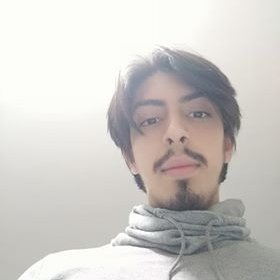
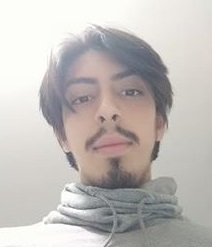
cambios en el contactame agregado de iconos con su redireccion

diff --git a/index.html b/index.html
@@ -5,12 +5,15 @@
   <meta charset="UTF-8">
   <meta http-equiv="X-UA-Compatible" content="IE=edge">
   <meta name="viewport" content="width=device-width, initial-scale=1.0">
-  <link rel="icon" href="./imgs/Logo.svg">
   <link rel="preconnect" href="https://fonts.googleapis.com">
   <link rel="preconnect" href="https://fonts.gstatic.com" crossorigin>
   <link href="https://fonts.googleapis.com/css2?family=Montserrat:wght@400;700&display=swap" rel="stylesheet">
   <link rel="stylesheet" href="./css/styles.css">
-  <title>HenryGalvez</title>
+  <title>Henry Galvez</title>
+  <meta name="description" content="Hola bienvenido a mi Portafolio Professional, soy Henry Galvez desarrollador Web">
+  <link rel="icon" href="./imgs/Logo.svg">
+  <link rel="apple-touch-icon" href="ruta/absoluta7...">
+  <meta name="theme-color" content="#cc1c00">
 </head>
 
 <body>
@@ -113,6 +116,15 @@
             necessitatibus.
             Rerum!</p>
         </aside>
+        <article class="modal" id="trabajo-1">
+          <a href="#cerrar" class="modal-close">
+            <img src="./imgs/close.svg" alt="closeIcon">
+          </a>
+          <div class="modal-content">
+            <img src="./imgs/portfolio-1.jpg" alt="proyecto-1">
+            <h2>Contenido Modal</h2>
+          </div>
+        </article>
       </div>
       <div class="img2-portfolio  img-portfolio">
         <aside>
@@ -122,6 +134,15 @@
             necessitatibus.
             Rerum!</p>
         </aside>
+        <article class="modal" id="trabajo-1">
+          <a href="#cerrar" class="modal-close">
+            <img src="./imgs/close.svg" alt="closeIcon">
+          </a>
+          <div class="modal-content">
+            <img src="./imgs/portfolio-2.jpg" alt="proyecto-1">
+            <h2>Contenido Modal 2</h2>
+          </div>
+        </article>
       </div>
       <div class="img3-portfolio  img-portfolio">
         <aside>
@@ -131,6 +152,15 @@
             necessitatibus.
             Rerum!</p>
         </aside>
+        <article class="modal" id="trabajo-1">
+          <a href="#cerrar" class="modal-close">
+            <img src="./imgs/close.svg" alt="closeIcon">
+          </a>
+          <div class="modal-content">
+            <img src="./imgs/portfolio-3.jpg" alt="proyecto-1">
+            <h2>Contenido Modal 3</h2>
+          </div>
+        </article>
       </div>
       <div class="img5-portfolio  img-portfolio">
         <aside>
@@ -140,6 +170,15 @@
             necessitatibus.
             Rerum!</p>
         </aside>
+        <article class="modal" id="trabajo-1">
+          <a href="#cerrar" class="modal-close">
+            <img src="./imgs/close.svg" alt="closeIcon">
+          </a>
+          <div class="modal-content">
+            <img src="./imgs/portfolio-5.jpg" alt="proyecto-1">
+            <h2>Contenido Modal 5</h2>
+          </div>
+        </article>
       </div>
       <div class="img6-portfolio  img-portfolio">
         <aside>
@@ -149,14 +188,41 @@
             necessitatibus.
             Rerum!</p>
         </aside>
+        <article class="modal" id="trabajo-1">
+          <a href="#cerrar" class="modal-close">
+            <img src="./imgs/close.svg" alt="closeIcon">
+          </a>
+          <div class="modal-content">
+            <img src="./imgs/portfolio-6.jpg" alt="proyecto-1">
+            <h2>Contenido Modal 6</h2>
+          </div>
+        </article>
       </div>
     </div>
     </div>
   </section>
   <section id="contactame" class="contact">
     <h2 class="title-section">Contactame</h2>
-    <p>Lorem, ipsum dolor sit amet consectetur adipisicing elit. Soluta quod, qui minus ea error molestias autem iste
-      quaerat ducimus eum ipsa quos animi maxime libero magnam, quasi quis placeat ratione!</p>
+    <div class="container-contact">
+      <img src="./imgs/perfil.jpg" alt="Perfil">
+      <div class="container-contact-icon">
+        <a href="https://github.com/HenryGalv" class="contact-icon" target="_blank" rel="noopener noreferrer">
+          <img src="./imgs/github.svg" alt="github">
+        </a>
+        <a href="https://www.linkedin.com/in/henry-angel-galvez-marin-5002821b6/" class="contact-icon" target="_blank"
+          rel="noopener noreferrer">
+          <img src="./imgs/linkedin.svg" alt="linkedin">
+        </a>
+        <a href="https://twitter.com/henryangelvez" class="contact-icon" target="_blank" rel="noopener noreferrer">
+          <img src="./imgs/twitter.svg" alt="twitter">
+        </a>
+        <a href="mailto:henry100w@hotmail.com" class="contact-icon">
+          <img src="./imgs/email.svg" alt="email">
+        </a>
+      </div>
+      <form action="" class="contact-form"></form>
+      <article id="gracias" class="modal-form"></article>
+    </div>
   </section>
   <footer class="footer">
     <small>Sitio diseñado por HenryGalvez</small>

diff --git a/css/styles.css b/css/styles.css
@@ -141,12 +141,12 @@ p {
   background-color: var(--fourth-color);
   overflow: hidden;
   max-height: 0;
-  transition: max-height 0.5s ease-out;
+  transition: max-height 0.3s ease-out;
 }
 
 .menu.is-active {
   max-height: 80vh;
-  transition: max-height 0.5s ease-in;
+  transition: max-height 0.3s ease-in;
 }
 .menu a {
   text-decoration: none;
@@ -285,6 +285,7 @@ header > .container {
   width: 40%;
   border-radius: 50%;
   box-shadow: 0.18rem 0.18rem 0.125rem rgba(0, 0, 0, 0.25);
+  filter: contrast(140%);
 }
 .btn-downloadCV {
   background-color: var(--first-color);
@@ -385,6 +386,71 @@ header > .container {
 }
 .img6-portfolio {
   background-image: url(../imgs/portfolio-6.jpg);
+}
+/*Modal*/
+.modal {
+  position: fixed;
+  z-index: 999;
+  top: 0;
+  right: 0;
+  bottom: 0;
+  left:0;
+  max-width: 0;
+  background-color: var(--black-alpha-color);
+  display: flex;
+  opacity: 0;
+  justify-content: center;
+  align-items: center;
+  overflow: hidden;
+  transition: all 0.3s ease;
+}
+.modal-active {
+  opacity: 1;
+  max-width: 100%;
+  transition: all 0.3s ease;
+}
+.modal-content {
+  position: relative;
+}
+.modal-close {
+  position: absolute;
+  top: 1rem;
+  right: 1rem;
+}
+.modal-close img {
+  width: 2.5rem;
+}
+.modal#trabajo-1:target{
+
+}
+/*Contactame*/
+.container-contact {
+  padding: 1rem;
+  display: flex;
+  flex-direction: column;
+  justify-content: center;
+  align-items: center;
+}
+.container-contact > img {
+  width: 40%;
+  border-radius: 50%;
+  box-shadow: 0.18rem 0.18rem 0.125rem rgba(0, 0, 0, 0.25);
+  filter: contrast(140%) grayscale(100%);
+}
+.container-contact-icon {
+  display: flex;
+  justify-content: center;
+  width: 100%;
+  margin-top: 1rem;
+}
+.contact-icon {
+  text-decoration: none;
+  margin: 0.5rem;
+  height: 4rem;
+  width: 10%;
+}
+.contact-icon > img {
+  width: 100%;
 }
 /*footer*/
 .footer {

diff --git a/js/scripts.js b/js/scripts.js
@@ -1,8 +1,9 @@
 /*Menu*/
 ((d) => {
   const $btnMenu = d.getElementById("btnMenu"),
-    $menu = d.getElementById("menu");
-  $imgPortfolio = d.querySelectorAll(".img-portfolio");
+    $menu = d.getElementById("menu"),
+  $imgPortfolio = d.querySelectorAll(".img-portfolio"),
+  $modal = d.querySelectorAll(".modal");
   $btnMenu.addEventListener("click", (e) => {
     $btnMenu.classList.toggle("active");
     $menu.classList.toggle("is-active");
@@ -13,11 +14,13 @@
       $menu.classList.remove("is-active");
     }
   });
-  $imgPortfolio.forEach(img => {
-    img.addEventListener("click", (e) => {
-      console.log('imagen' + img);
-    });
-  });
+  for (let i = 0; i < $imgPortfolio.length; i++) {
+    $imgPortfolio[i].addEventListener("click", (e) => {
+      $modal[i].classList.toggle
+      ('modal-active');
+      console.log('imagen' + i);
+    });    
+  }
   console.log($imgPortfolio);
 })
   (document);
